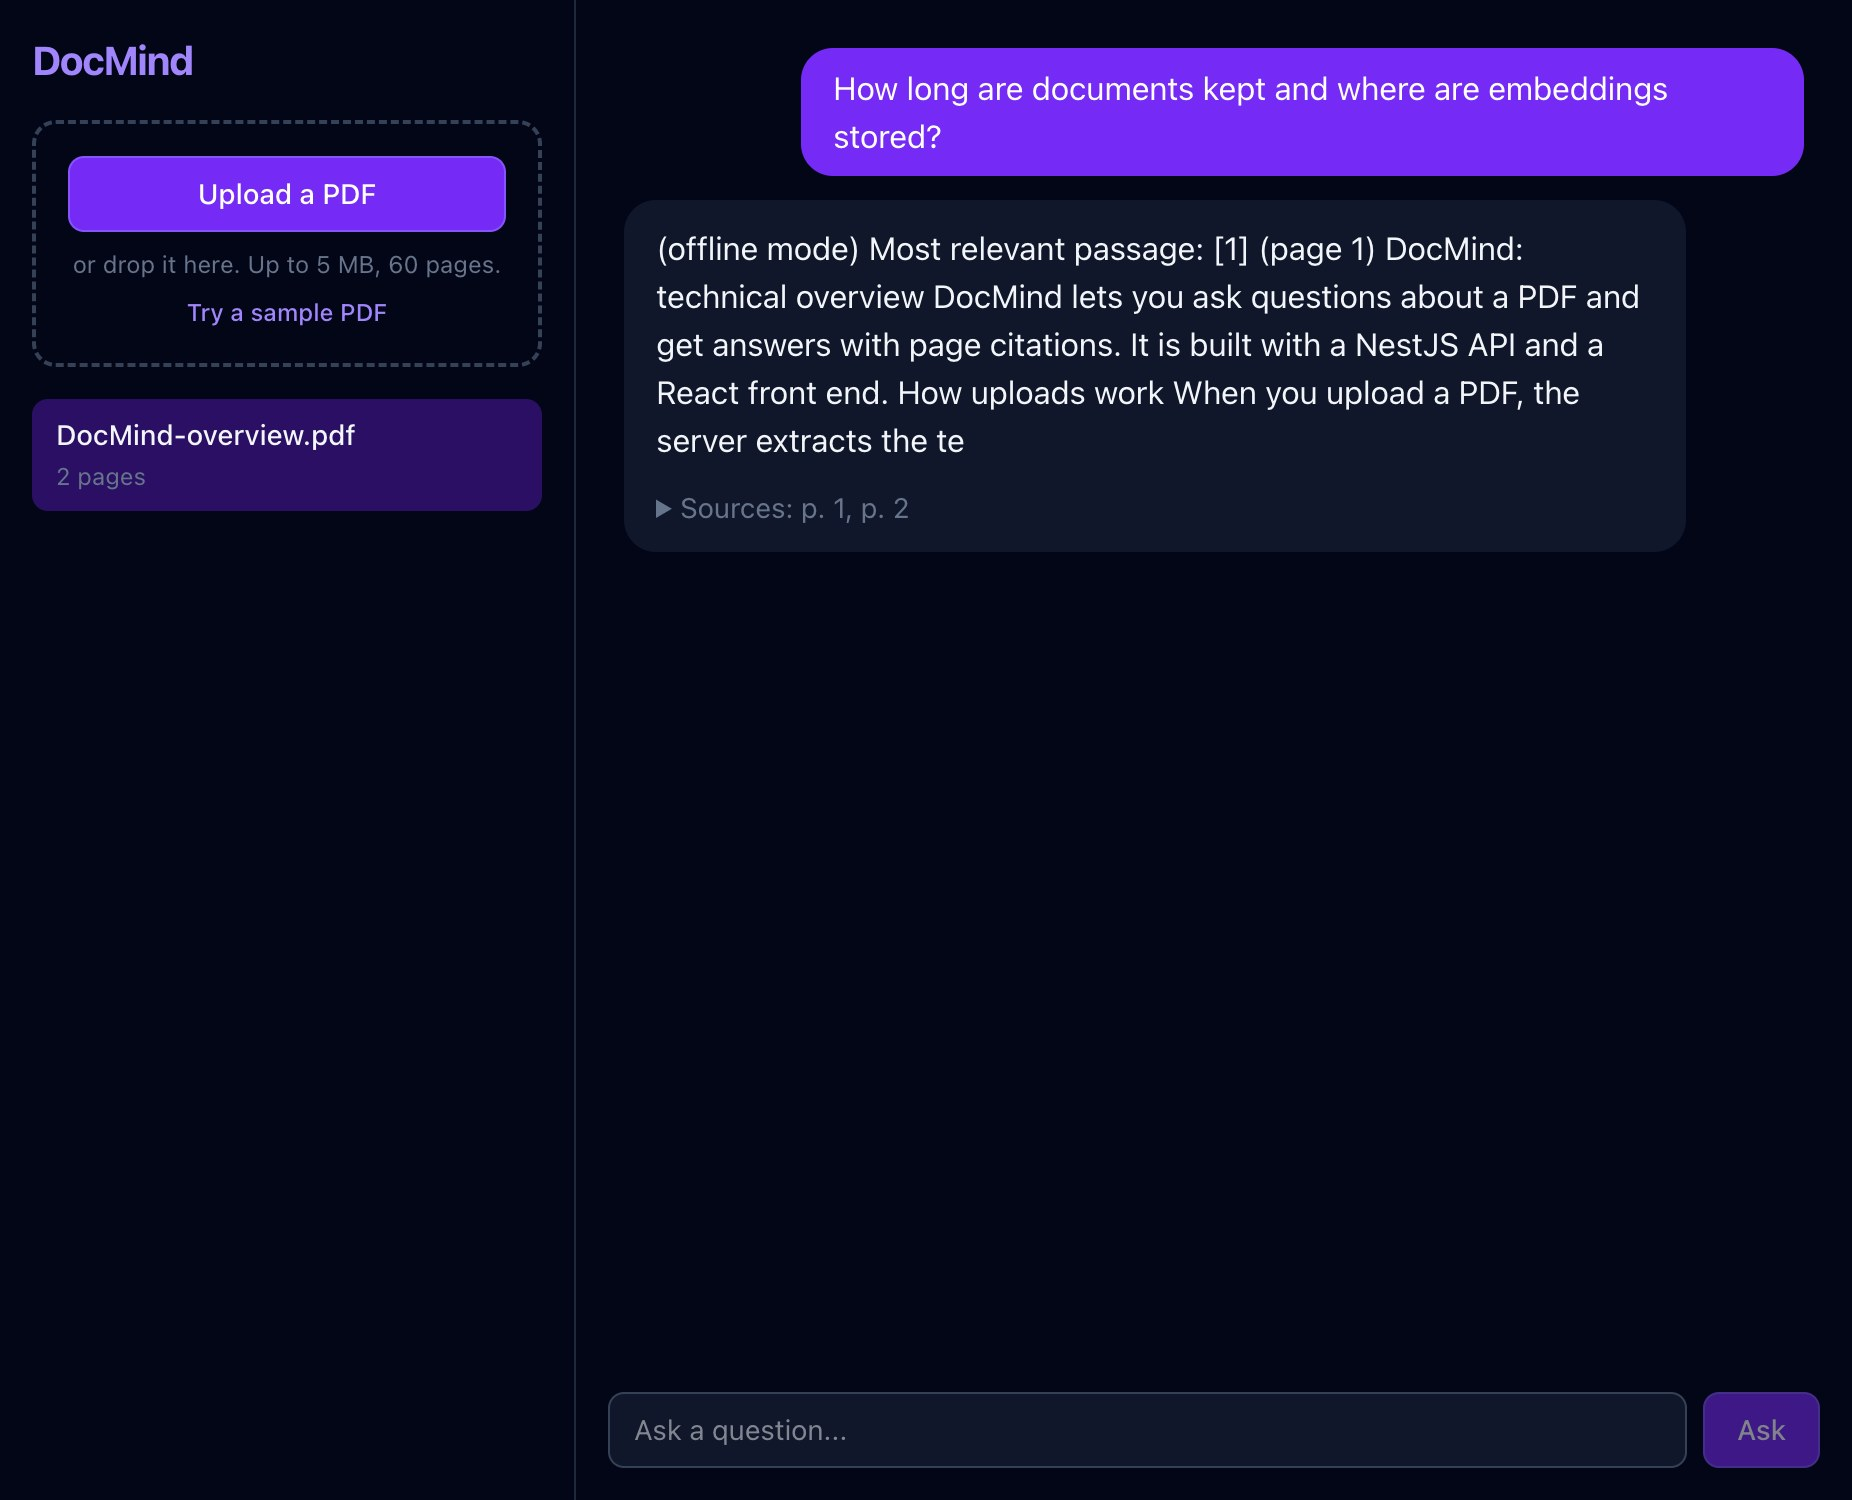
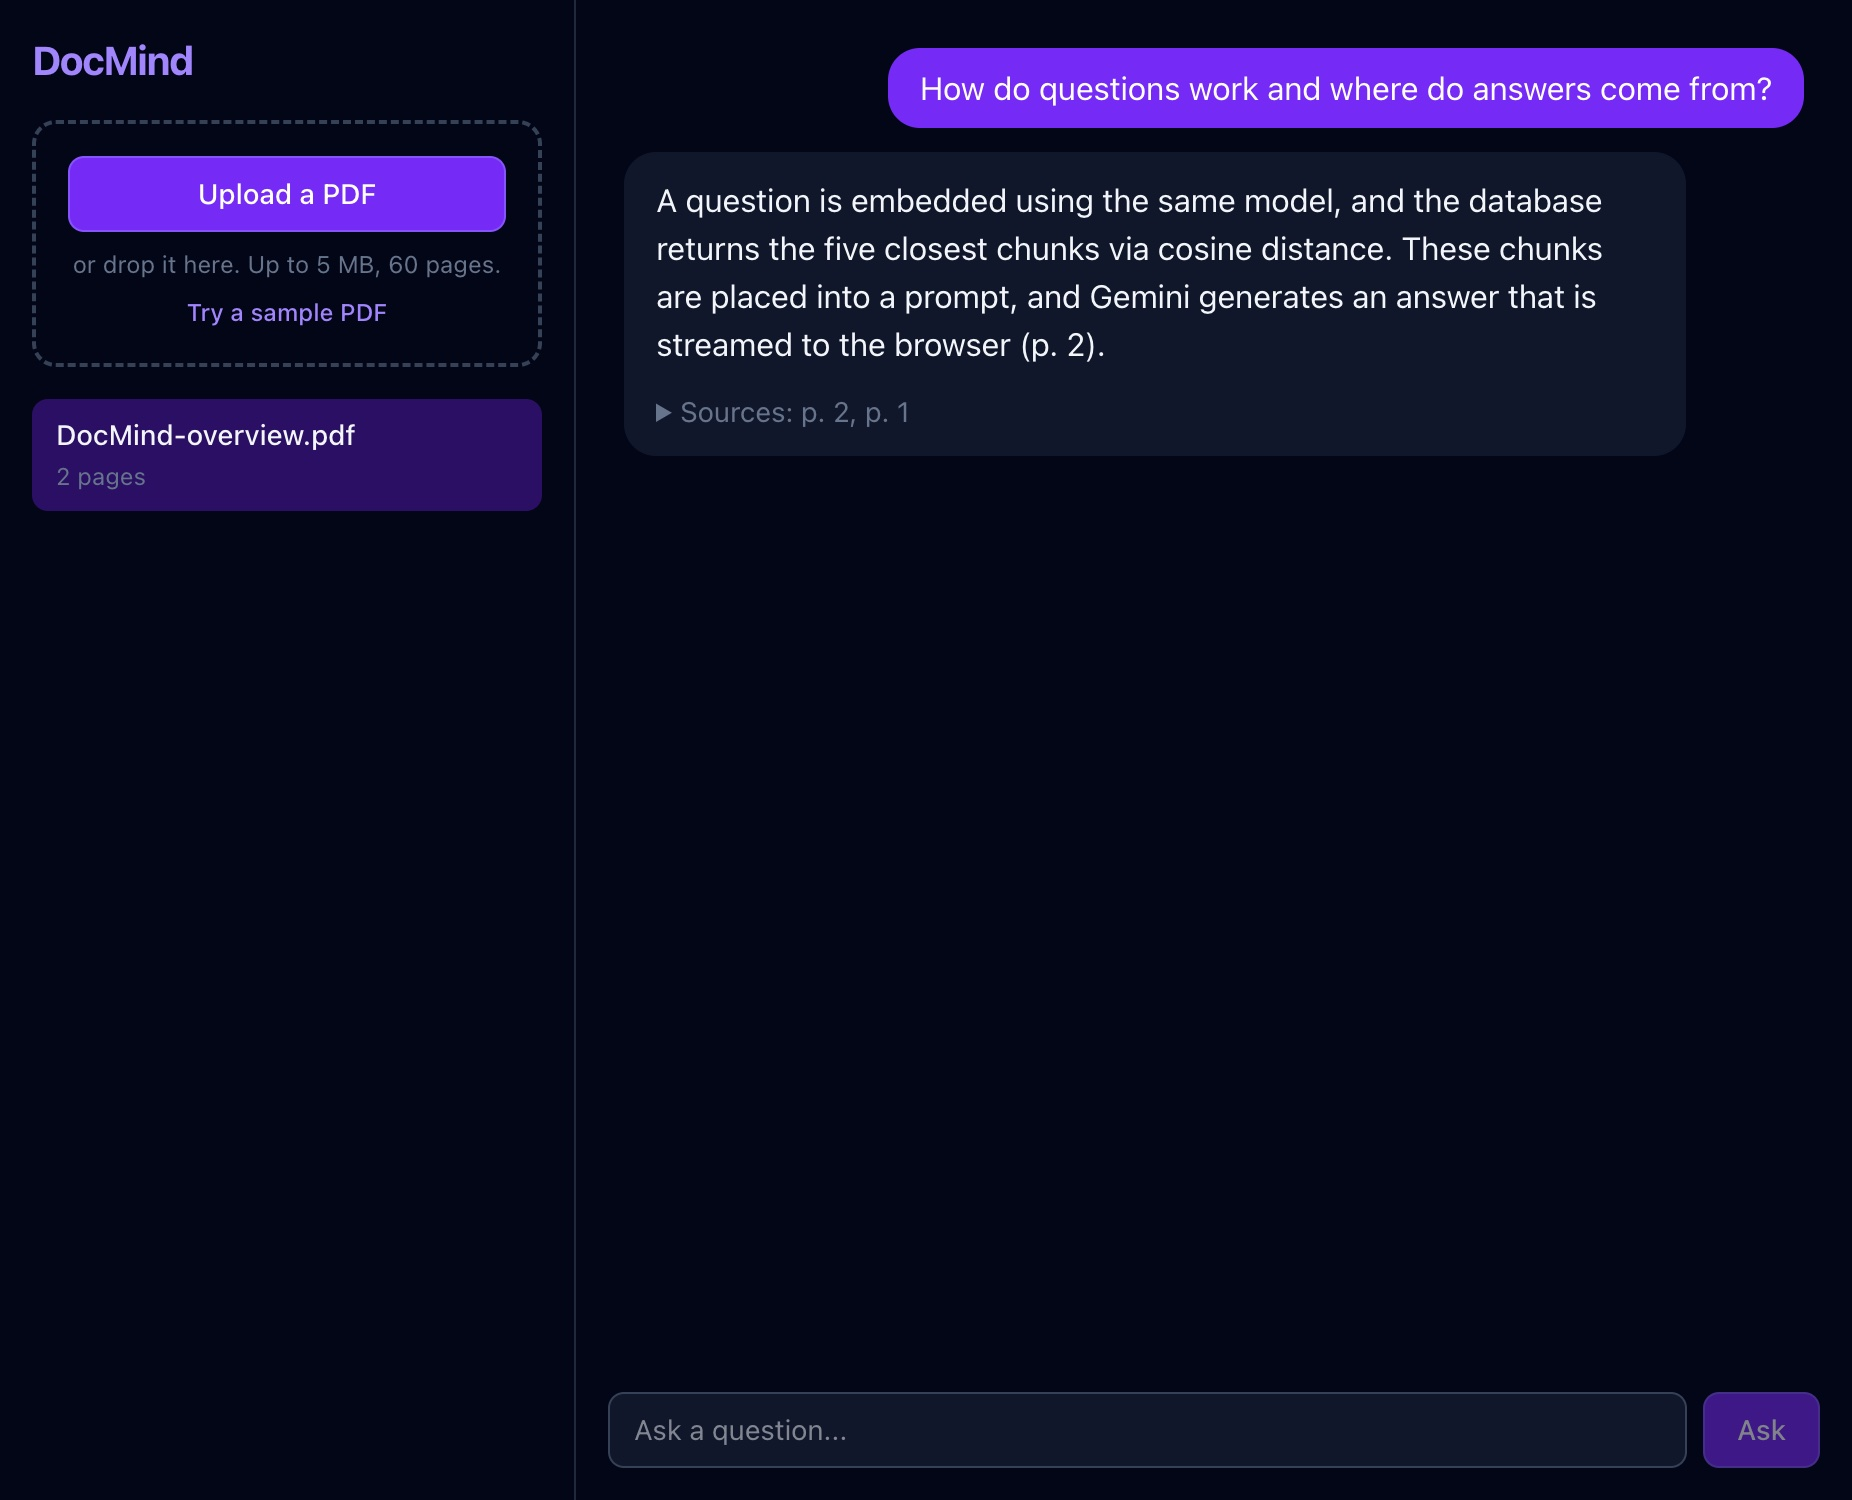
Add live demo links and real Gemini screenshot

Changed region(s): [[0.3386, 0.0307, 0.9849, 0.3067], [0.3693, 0.3373, 0.4309, 0.368], [0.4617, 0.3373, 0.4924, 0.368]]

diff --git a/README.md b/README.md
@@ -4,8 +4,8 @@ Upload a PDF and ask it questions. Answers stream in token by token and cite the
 
 | | |
 |---|---|
-| Live demo | _added after deploy_ (click **Try a sample PDF**) |
-| API docs (Swagger) | _added after deploy_ (`/docs`) |
+| Live demo | https://docmind-app-gamma.vercel.app (click **Try a sample PDF**; the free API host may take ~30 s to wake up) |
+| API docs (Swagger) | https://docmind-api-b50a.onrender.com/docs |
 
 ![DocMind](docs/screenshots/chat.jpg)
 
